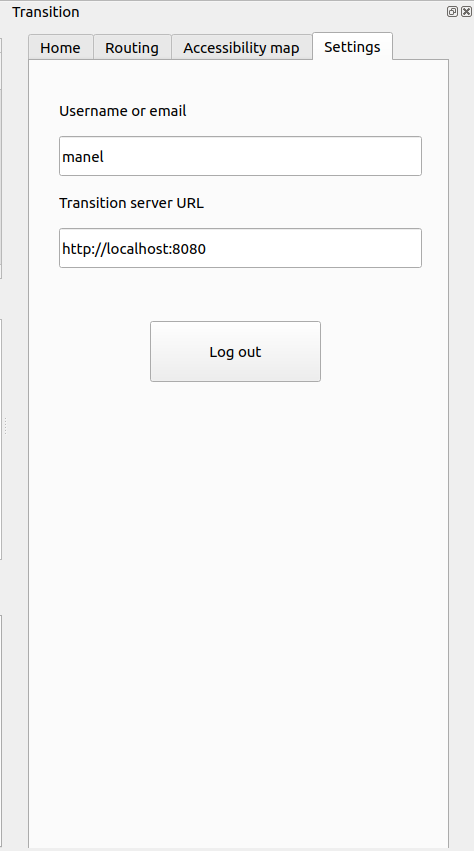
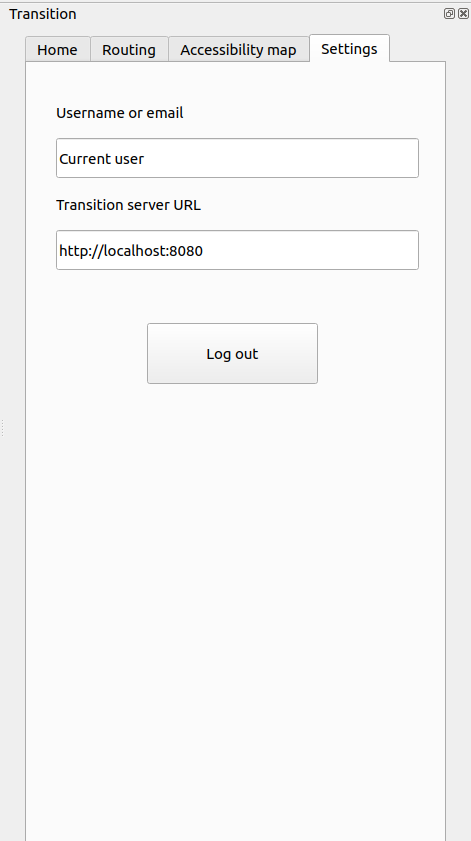
Add settings page description

diff --git a/README.md b/README.md
@@ -39,10 +39,17 @@ For transit, if the **Calculate with alternatives** option is checked, multiple 
 The accessibility map page allows users to send a calculation request to the Transition application in order to receive an accessibility map. Users can choose the origin point as well as different parameters such as the departure and waiting time.\
 If the **Separate polygons into different layers** option is checked, the result will be a group layer containing a separate layer for each polygon. Otherwise, the result will just be one layer containing all the polygons.
 
+### Settings page
+![alt text](docs/screenshots/settings_page.png)
+
+The settings page contains read-only fields that display the connected user and the server URL currently being used. This mainly allows users to validate if the current URL is the desired one or if it needs to be changed.\
+The page also allows users to disconnect from the plugin.  
+
 ## Contribute
 
 ### Clone the repository and install dependencies
-To contribute to the Transition QGIS plugin, you can clone this reponsitory in `~/.local/share/QGIS/QGIS3/profiles/default/python/plugins/`. The plugin should then be added to your installed plugins and can be visible in the plugin bar.\
+To contribute to the Transition QGIS plugin, you can clone this reponsitory in `~/.local/share/QGIS/QGIS3/profiles/default/python/plugins/`. The plugin should then be added to your installed plugins and can be visible in the plugin bar.
+
 ![alt text](docs/screenshots/plugin_icons.png)
 
 In order to contribute to the project, you need to install the project dependencies. To do that, run the command :
